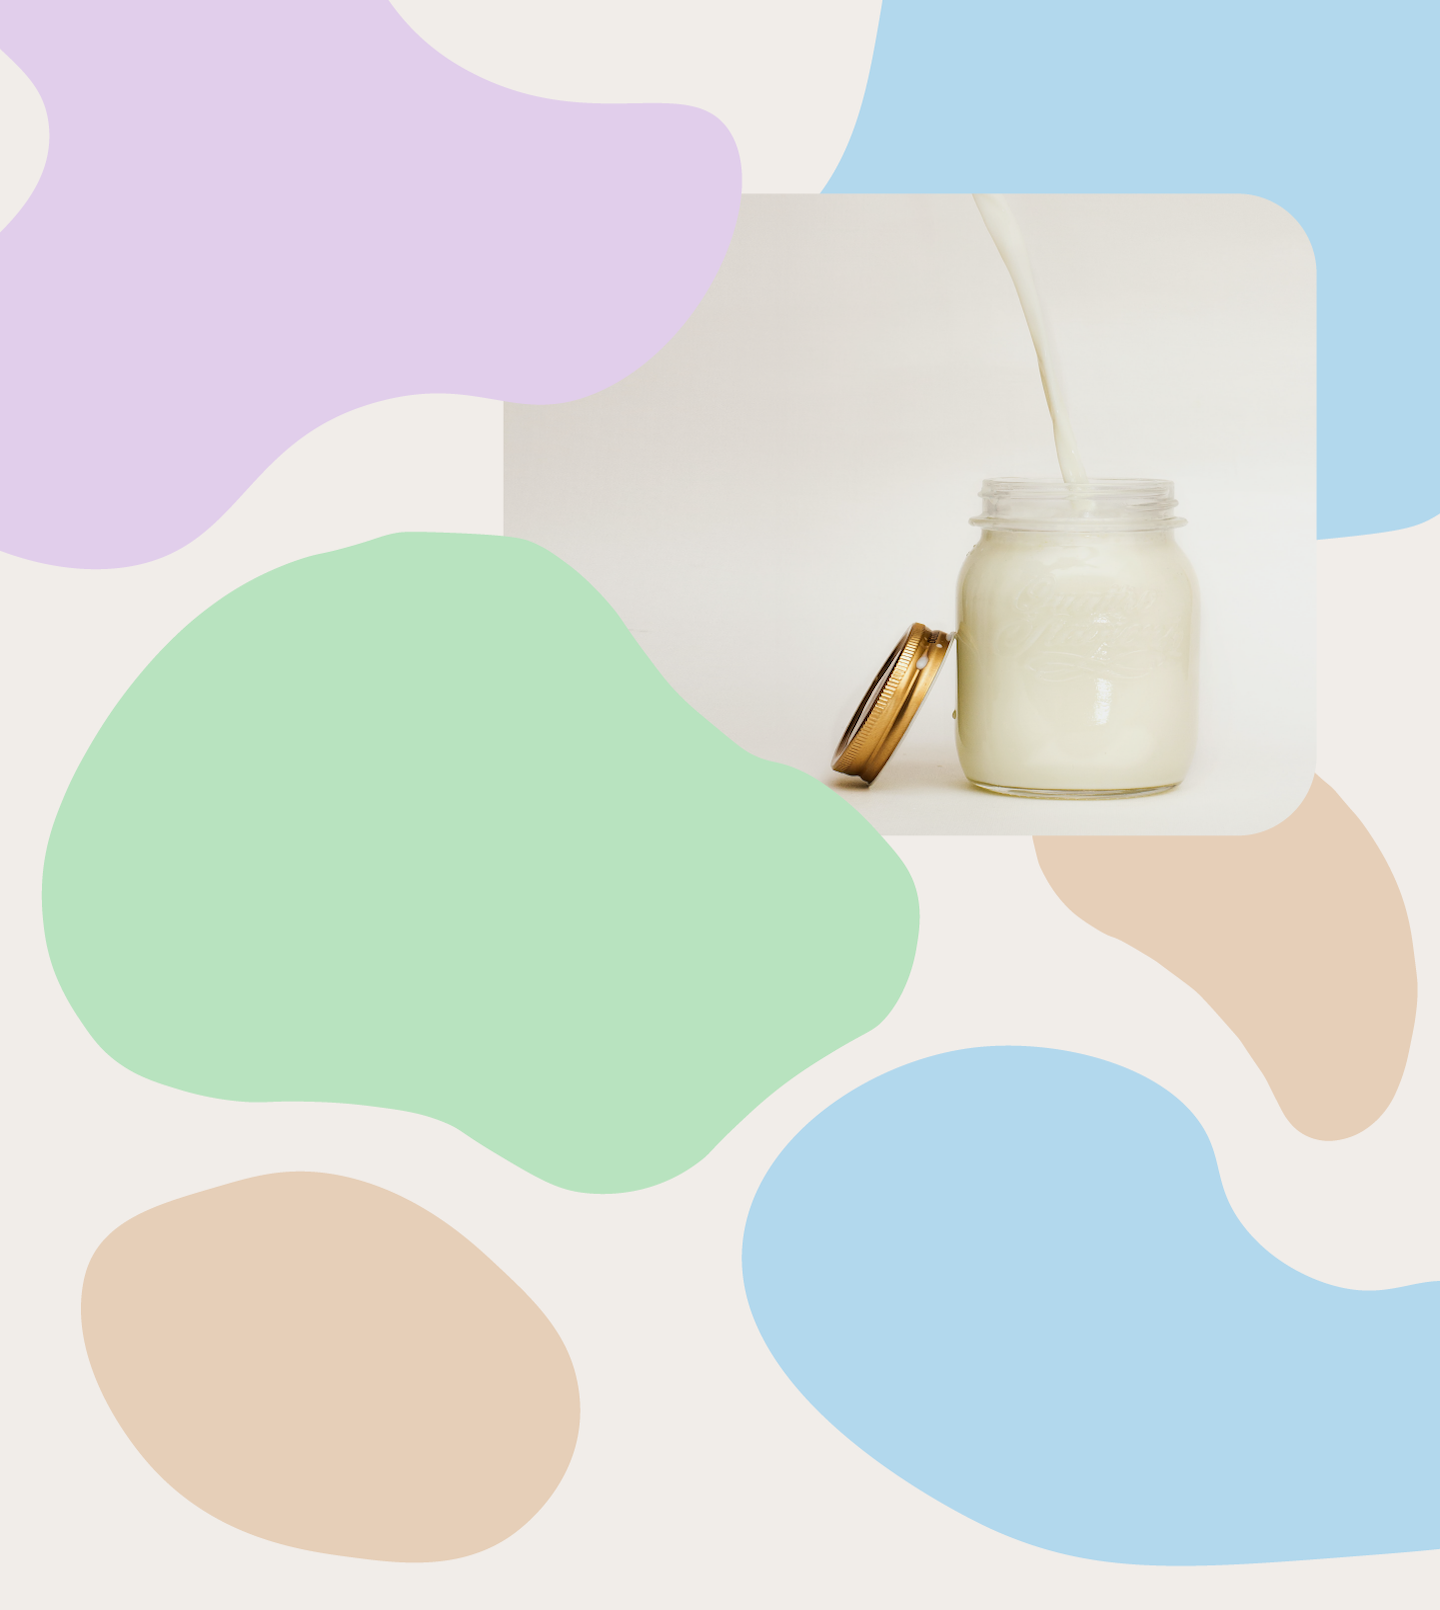
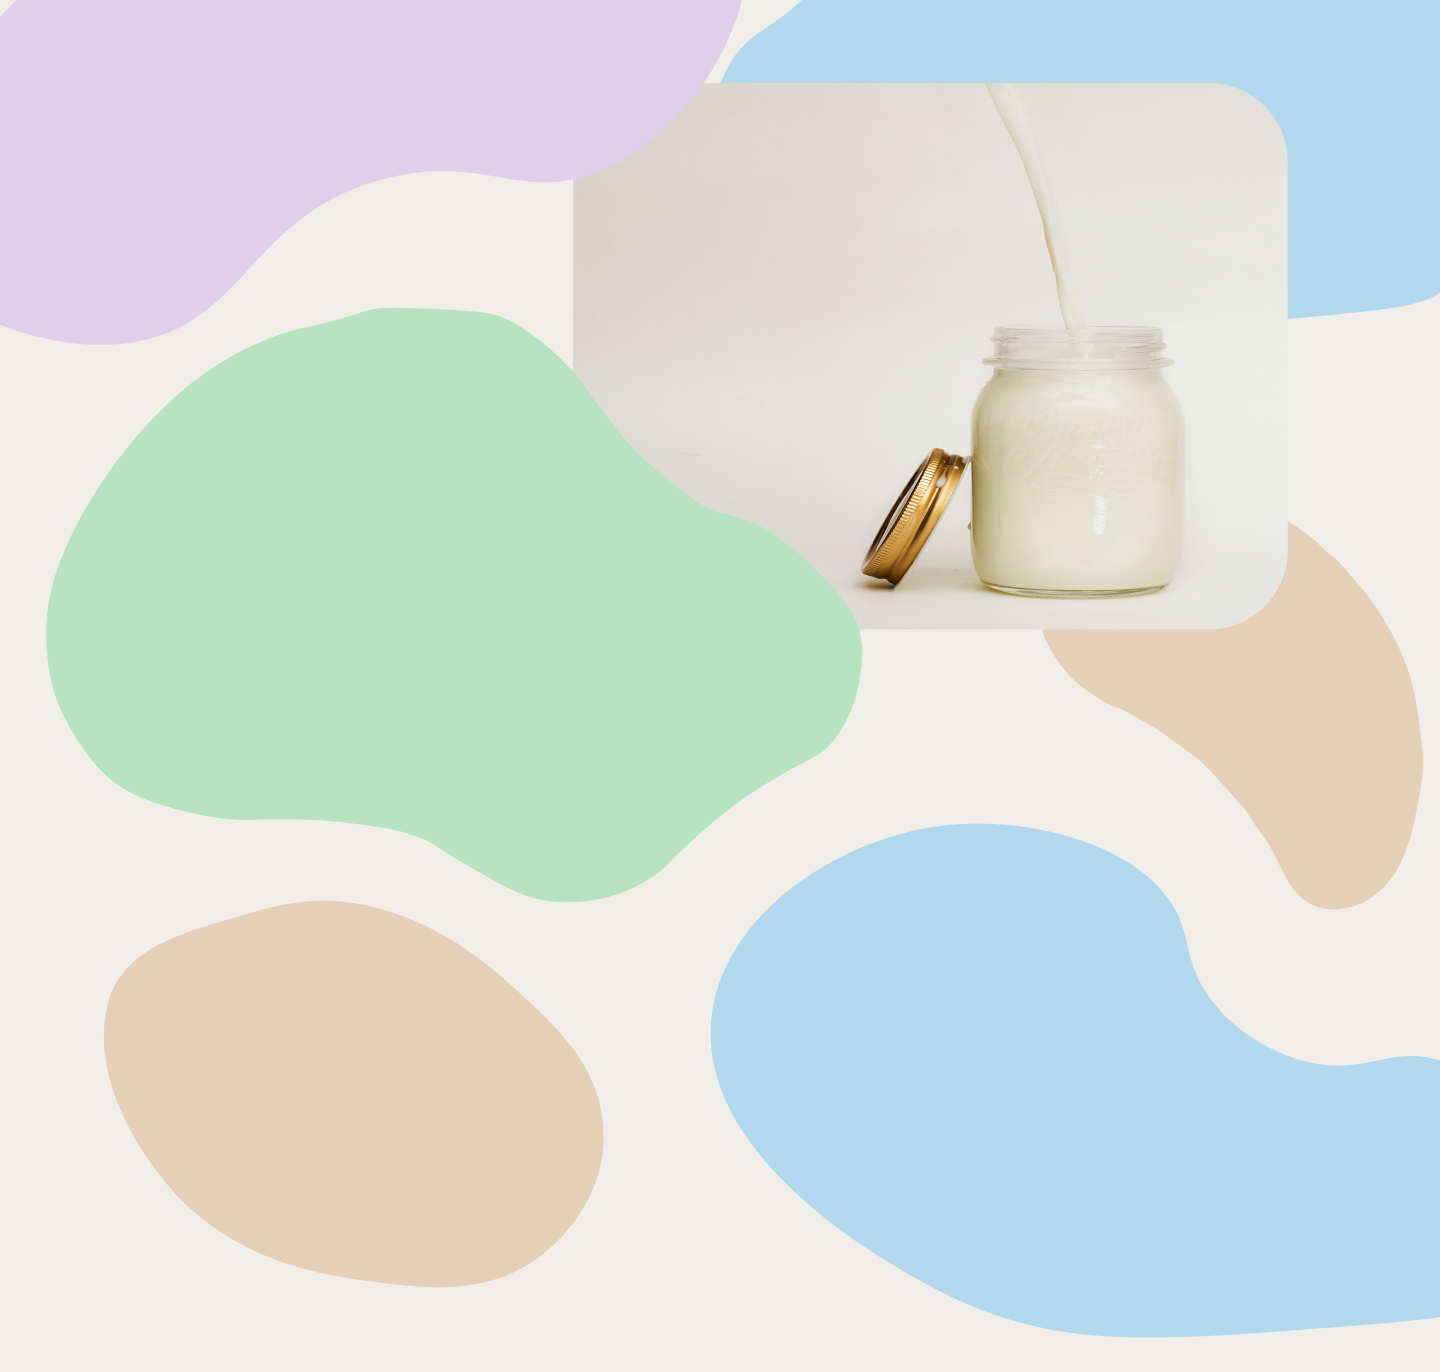
line-heightを設定したら、上の余白がなくなった

diff --git a/index.html b/index.html
@@ -108,7 +108,7 @@
                     </p>
                 </div>
                 <div class="milk-recommend">
-                    <a>おすすめ商品を見る</a>
+                    <a href="https://www.meijioishiigyunyu.com/">おすすめ商品を見る</a>
                 </div>
             </div>
         </div>
@@ -131,7 +131,7 @@
                     </p>
                 </div>
                 <div class="milk-recommend">
-                    <a>おすすめ商品を見る</a>
+                    <a href="https://www.kikkoman.co.jp/products/product/K580500/index.html">おすすめ商品を見る</a>
                 </div>
             </div>
             <div class="content-right">
@@ -164,7 +164,7 @@
                     </p>
                 </div>
                 <div class="milk-recommend">
-                    <a>おすすめ商品を見る</a>
+                    <a href="https://cp.glico.com/almond-k/">おすすめ商品を見る</a>
                 </div>
             </div>
         </div>
@@ -186,7 +186,7 @@
                     </p>
                 </div>
                 <div class="milk-recommend">
-                    <a>おすすめ商品を見る</a>
+                    <a href="https://www.alpro.com/jp/products/drinks/oat-drinks/oat-original/">おすすめ商品を見る</a>
                 </div>
             </div>
             <div class="content-right">

diff --git a/style.css b/style.css
@@ -17,13 +17,15 @@ section{
 }
 body{
     background-color: #f1ede9;
+    position: relative;
+    line-height: 0;
+
 }
 
 #header{
   background-size: cover;
   background-position: center center;
   background-repeat: no-repeat;
-  position: relative;
   height: 1589px;
   background-image: url(img/main.png);
 }
@@ -33,8 +35,9 @@ body{
     position: absolute;
     display: flex;
     flex-direction: column;
-    top: 684px;
-    left: 148px;
+    top: 538px;
+    left: 62px;
+    line-height: 1;
 }
 
 .theme-top{
@@ -95,7 +98,8 @@ body{
 
 .scroll{
     position: absolute;
-    top: 1314px;
+    line-height: 1;
+    top: 1160px;
     left: 282px;
     font-size: 56px;
     font-family: 'Josefin Sans', sans-serif;
@@ -121,7 +125,8 @@ body{
 /* ナビゲーション */
 .milkname-container{
     position: absolute;
-    top: 1074px;
+    line-height: 1;
+    top: 1018px;
     right: 300px;
 
 }
@@ -406,6 +411,7 @@ h1, h2, h3, h4{
     justify-content: center;
     align-items: center;
     position: absolute;
+    line-height: 2;
 }
 
 h5{
@@ -545,6 +551,7 @@ h5{
     flex-direction: column;
     justify-content: center;
     width: 38%;
+    line-height: 2;
 }
   
 h6{
